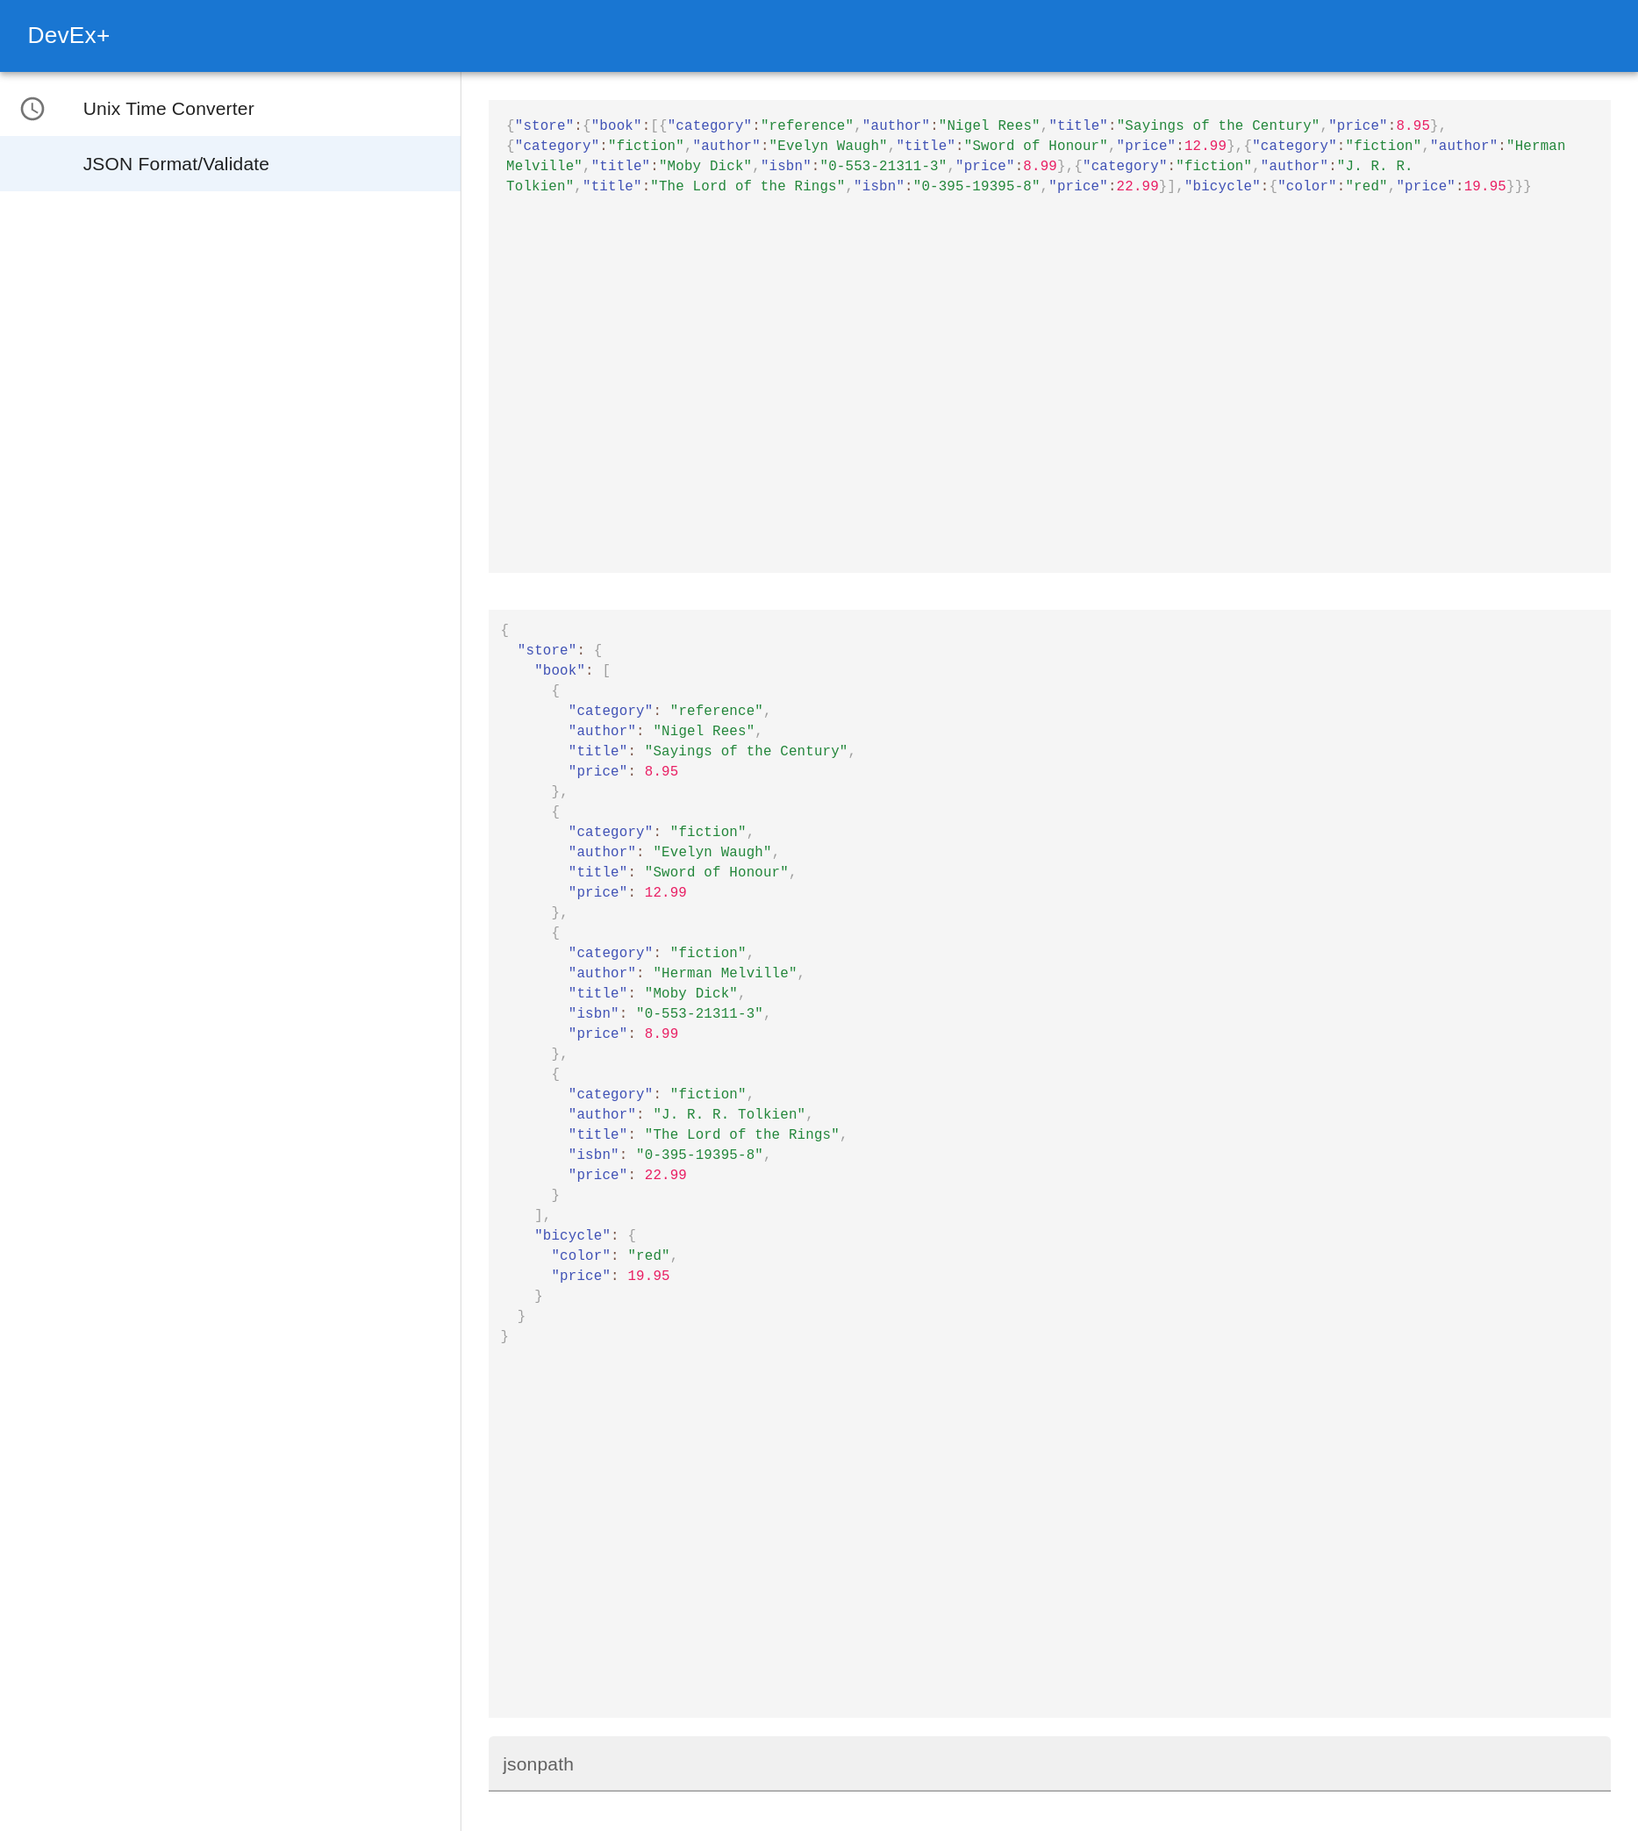
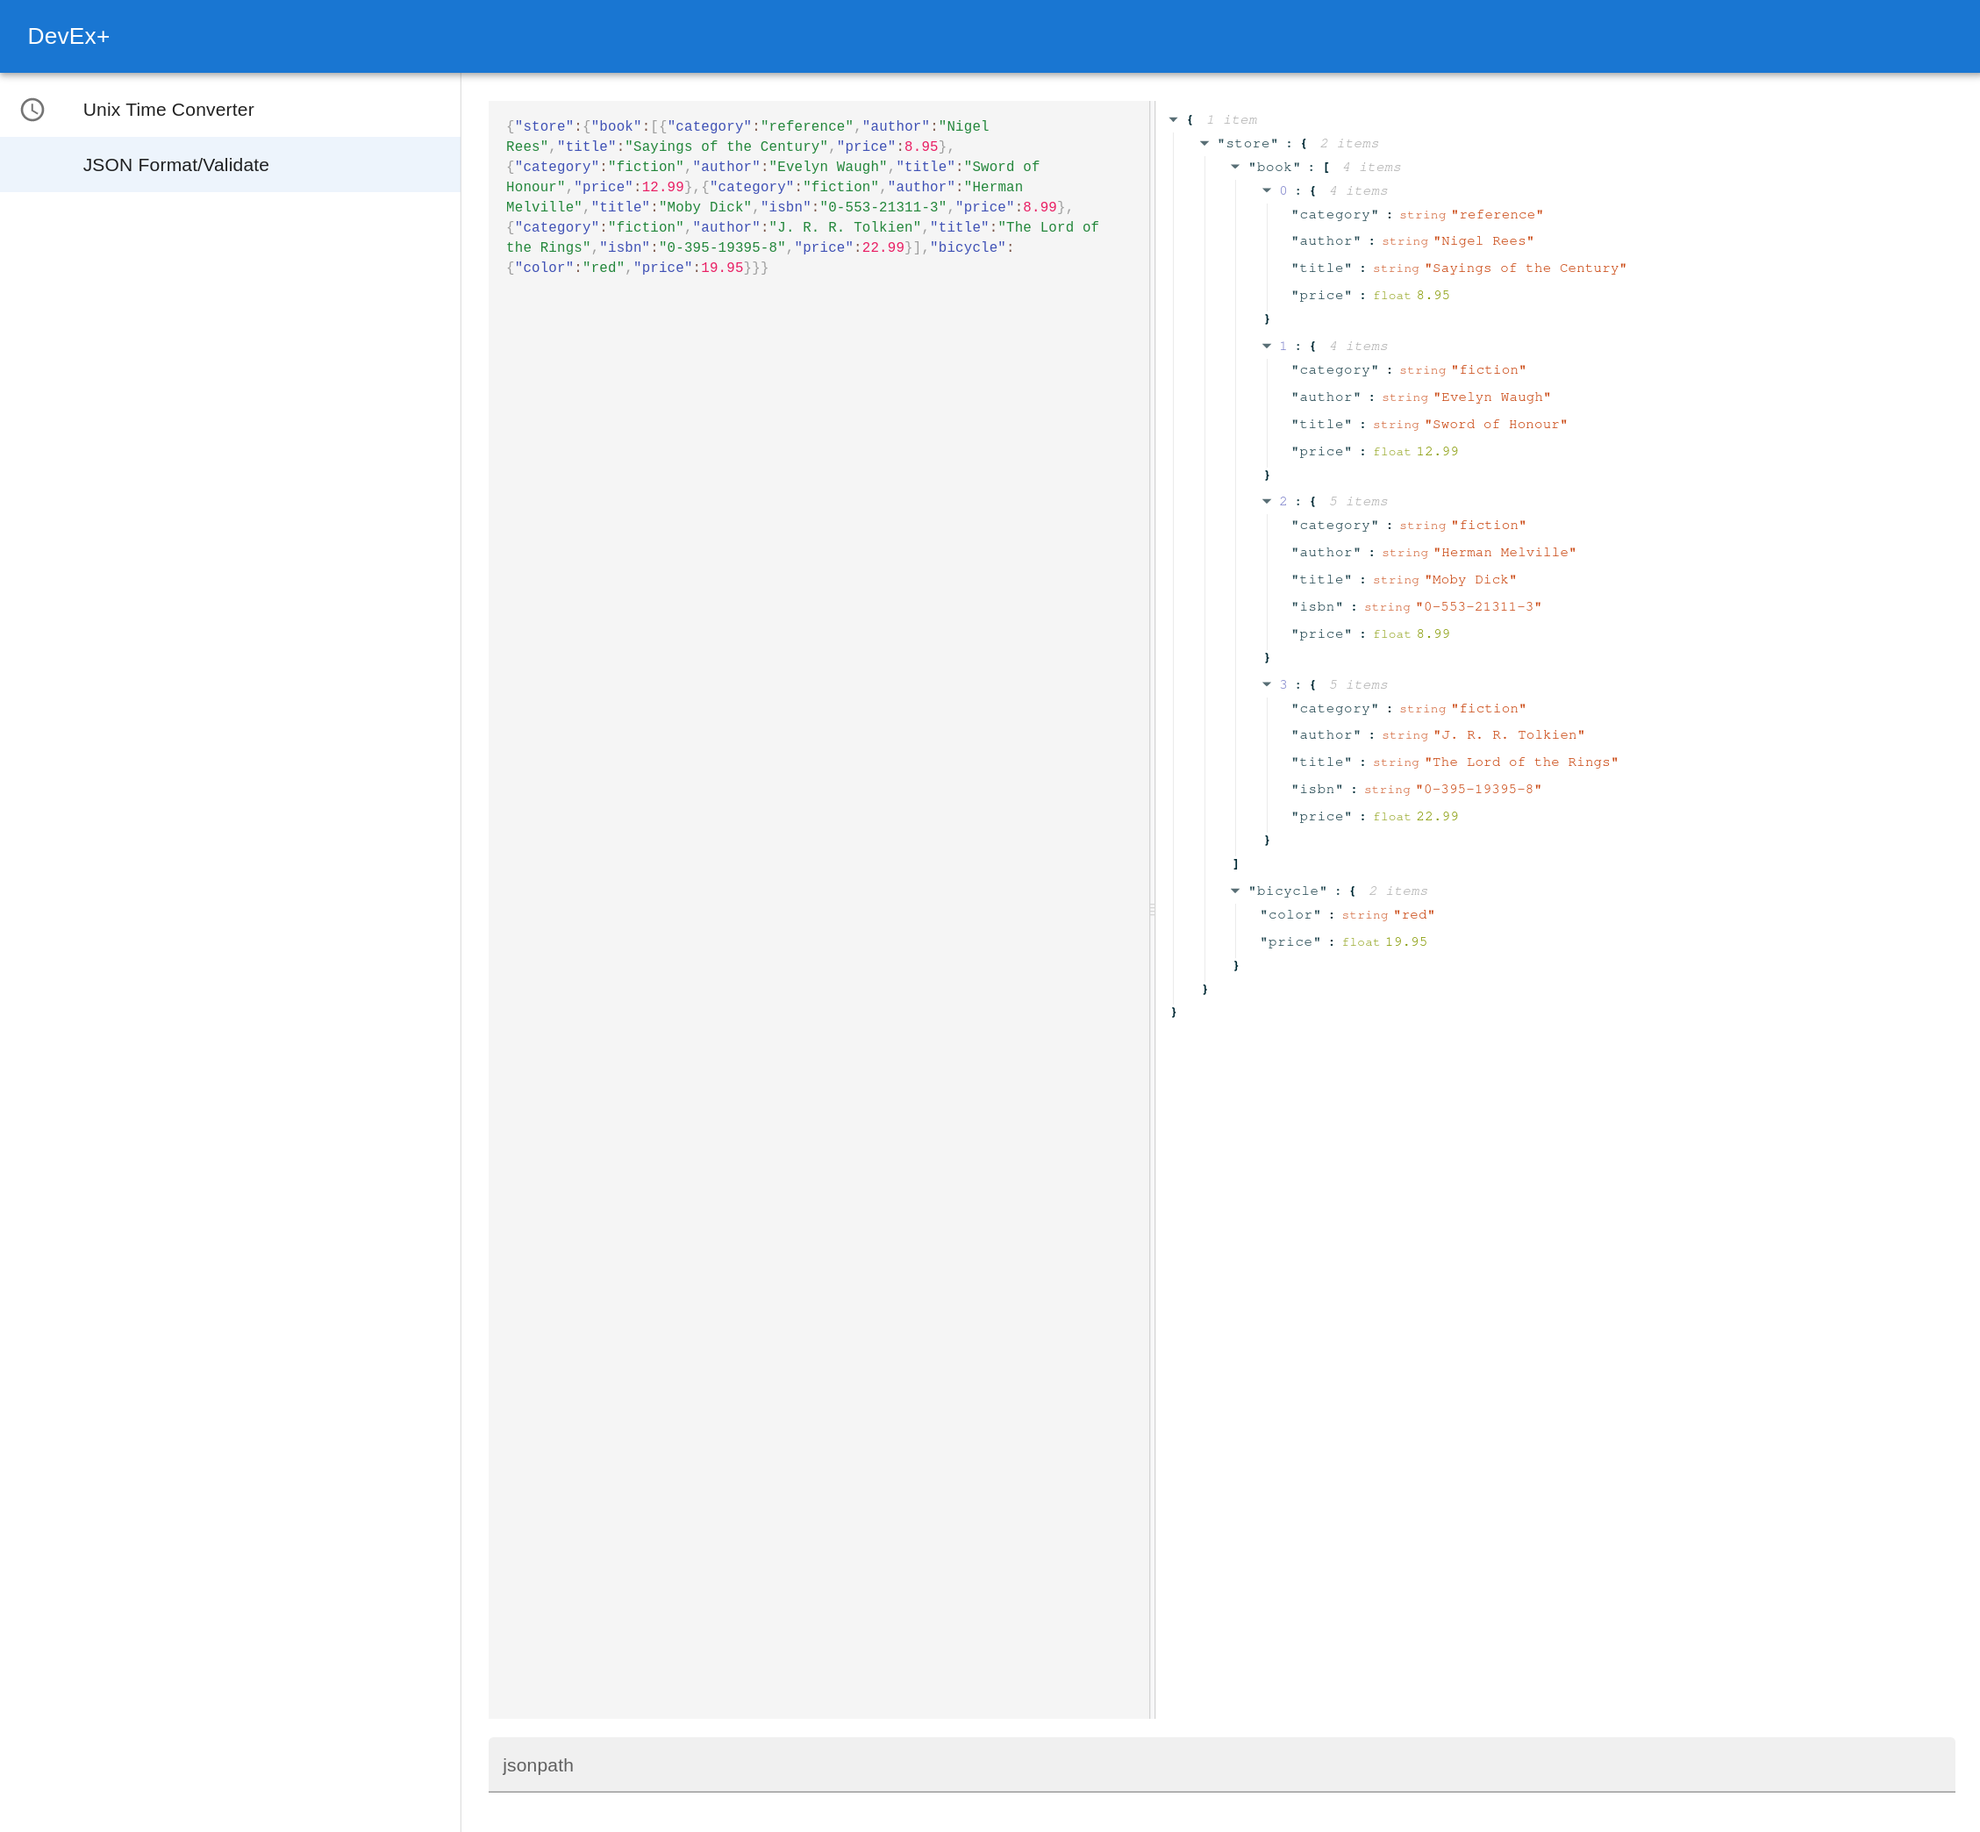
update json

diff --git a/src/plugins/json-format.tsx b/src/plugins/json-format.tsx
@@ -1,14 +1,15 @@
-import { Alert, Grid, Snackbar, TextField } from '@mui/material';
+import { Alert, Snackbar, TextField, useTheme } from '@mui/material';
 import { Box } from '@mui/system';
+import { ReactElement, useEffect, useMemo, useState } from 'react';
+import { JSONPath } from 'jsonpath-plus';
 import CodeEditor from '@uiw/react-textarea-code-editor';
-import { ReactElement, useEffect, useState } from 'react';
-import  {JSONPath} from 'jsonpath-plus';
+import Split from '@uiw/react-split';
+import JsonViewer from 'react-json-view';
 
 export default function JSONFormat(): ReactElement {
     const [code, setCode] = useState("");
     const [jpath, setJPath] = useState("");
     const [obj, setObj] = useState({});
-    const [format, setFormat] = useState("");
     const [error, setError] = useState("");
 
     useEffect(() => {
@@ -21,45 +22,48 @@ export default function JSONFormat(): ReactElement {
         }
     }, [code]);
 
-    useEffect(() => {
-        const ext = jpath ? JSONPath({json: obj, path: jpath}) : obj;
-        setFormat(JSON.stringify(ext, null, 2));
+    const ext = useMemo(() => {
+        return jpath ? JSONPath({ json: obj, path: jpath }) : obj;
     }, [obj, jpath]);
 
-    return <Box sx={{ height: 0.98 }} >
-        <Grid container sx={{ height: 0.95 }} spacing={4}>
-            <Grid item xl={6} lg={12}>
-                <CodeEditor
-                    value={code}
-                    language="json"
-                    placeholder={`{"please": "put unformated JSON here"}`}
-                    onChange={(evn) => setCode(evn.target.value)}
-                    padding={15}
-                    style={{
-                        fontSize: 12,
-                        backgroundColor: "#f5f5f5",
-                        fontFamily: 'ui-monospace,SFMono-Regular,SF Mono,Consolas,Liberation Mono,Menlo,monospace',
-                        height: "100%",
-                    }}
-                />
+    const theme = useTheme()
+    const eight = theme.spacing(8);
+
+    return <Box sx={{ height: `calc(100% - ${eight})` }} >
+        <Split style={{ height: "95%" }}>
+            <div style={{ minWidth: 230, width: '45%', position: 'relative' }}>
+                <div style={{ overflow: 'auto', height: '100%', boxSizing: 'border-box' }}>
+                    <CodeEditor
+                        value={code}
+                        language="json"
+                        placeholder={`{"please": "put unformated JSON here"}`}
+                        onChange={(evn) => setCode(evn.target.value)}
+                        padding={15}
+                        style={{
+                            fontSize: 12,
+                            backgroundColor: "#f5f5f5",
+                            fontFamily: 'ui-monospace,SFMono-Regular,SF Mono,Consolas,Liberation Mono,Menlo,monospace',
+                            minHeight: "100%",
+                        }}
+                    />
+                </div>
                 <Snackbar open={!!error} autoHideDuration={6000} onClose={() => setError("")}>
                     <Alert variant="filled" severity="error" onClose={() => setError("")}>{error}</Alert>
                 </Snackbar>
-            </Grid>
-            <Grid item xl={6} lg={12}>
-                <CodeEditor
-                    value={format}
-                    language="json"
-                    placeholder={`{\n  "please": "put unformated JSON here"\n}`}
-                    style={{
-                        fontSize: 12,
-                        backgroundColor: "#f5f5f5",
-                        fontFamily: 'ui-monospace,SFMono-Regular,SF Mono,Consolas,Liberation Mono,Menlo,monospace',
-                        height: "100%",
-                    }}
+            </div>
+
+            <div style={{ flex: 1, minWidth: 230, userSelect: 'none', padding: 10, overflow: 'auto' }}>
+                <JsonViewer
+                    name={false}
+                    src={
+                        code.length === 0
+                            ? { "please": "put unformated JSON here" }
+                            : ext
+                    }
+                    theme="rjv-default"
                 />
-            </Grid>
-        </Grid>
+            </div>
+        </Split>
         <TextField
             sx={{ marginTop: 2 }}
             variant="filled"

diff --git a/src/app.tsx b/src/app.tsx
@@ -7,9 +7,6 @@ import UnixTimeIcon from "@mui/icons-material/AccessTime";
 import AdapterDateFns from '@mui/lab/AdapterDateFns';
 import LocalizationProvider from '@mui/lab/LocalizationProvider';
 
-import UnixTime from "./plugins/unix-time";
-import JSONFormat from "./plugins/json-format";
-
 interface Plugin {
     name: string;
     icon: React.ReactNode;
@@ -20,12 +17,12 @@ export const plugins: Record<string, Plugin> = {
     "unix-time": {
         name: "Unix Time Converter",
         icon: <UnixTimeIcon />,
-        content: async () => ({ default: UnixTime })
+        content: () => import("./plugins/unix-time"),
     },
     "json-format": {
         name: "JSON Format/Validate",
         icon: null,
-        content: async () => ({ default: JSONFormat })
+        content: () => import("./plugins/json-format"),
     }
 }
 

diff --git a/.babelrc.js b/.babelrc.js
@@ -1,0 +1,8 @@
+const plugins = [
+  [
+    'babel-plugin-direct-import',
+    { modules: ['@mui/material', '@mui/icons-material'] },
+  ],
+];
+
+module.exports = { plugins };

diff --git a/README.md b/README.md
@@ -6,6 +6,8 @@ This is a developer utility tool which aspires to be a local or web application 
 - [X] JSON Formatting and JSONPath extraction
 - [ ] Base64 encoding/decoding
 - [ ] Regex tester
+- [ ] Markdown preview
+- [ ] Color picker (RGB, HSL, etc), conversions from hex to dec
 - [ ] Plugin support
 
 ## Plugins
